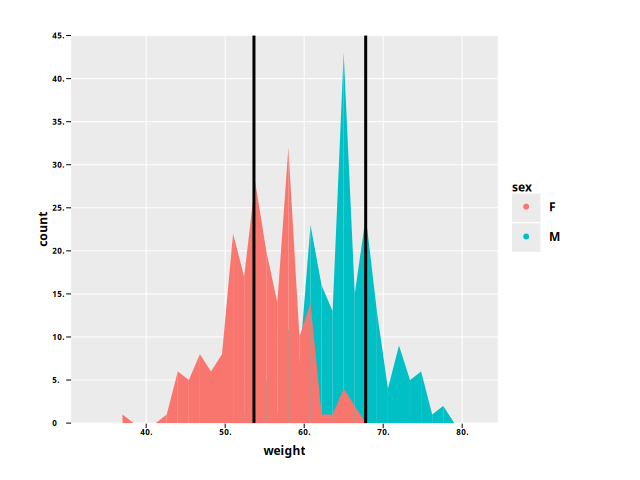
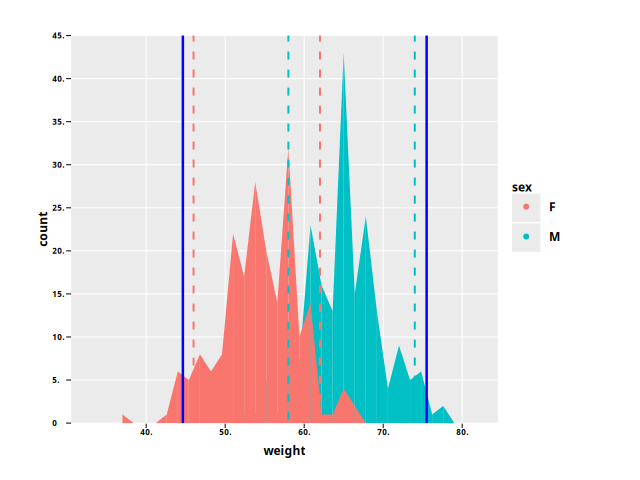
improvements for vline

diff --git a/src/python_ggplot/gg/geom/base.py b/src/python_ggplot/gg/geom/base.py
@@ -34,6 +34,8 @@ from python_ggplot.gg.styles.config import (
     TEXT_DEFAULT_STYLE,
     TILE_DEFAULT_STYLE,
 )
+
+# from python_ggplot.gg.styles.utils import apply_style
 from python_ggplot.gg.types import (
     COUNT_COL,
     SMOOTH_VALS_COL,
@@ -60,6 +62,7 @@ from python_ggplot.graphics.initialize import (
     init_rect,
     init_text,
 )
+from python_ggplot.graphics.objects import GraphicsObject
 from python_ggplot.graphics.views import ViewPort
 from tests.test_view import AxisKind, RelativeCoordType
 
@@ -171,6 +174,9 @@ class Geom(ABC):
     def has_bars(self) -> bool:
         # can be true for for geom_bar and geom_histogram
         return False
+
+    def inherit_aes(self) -> bool:
+        return True
 
 
 @dataclass
@@ -621,6 +627,10 @@ class GeomTile(GeomTileMixin, Geom):
 @dataclass
 class GeomVLine(Geom):
     xintercept: Union[Union[float, int], Iterable[Union[float, int]]]
+    inhert_aes: bool = False
+
+    def inherit_aes(self) -> bool:
+        return self.inhert_aes
 
     @property
     def allowed_stat_types(self) -> List["StatType"]:
@@ -636,14 +646,7 @@ class GeomVLine(Geom):
     def geom_type(self) -> GeomType:
         return GeomType.GEOM_VLINE
 
-    def draw_detached_geom(self, view: ViewPort, filled_geom: FilledGeom):
-        val = self.xintercept
-        scale = filled_geom.gg_data.x_scale
-
-        if scale is None:
-            # we should allow doing it relatively eg 20%
-            raise GGException("expected x_scale for vline")
-
+    def _draw_vline(self, val: float, scale: Scale, style: Style) -> GraphicsObject:
         rel_pos = (float(val) - scale.low) / (scale.high - scale.low)
         x = RelativeCoordType(rel_pos)
         y1 = RelativeCoordType(0.0)
@@ -653,17 +656,34 @@ class GeomVLine(Geom):
         line = init_line(
             start,
             end,
-            InitLineInput(
-                style=Style(
-                    color=deepcopy(BLACK),
-                    fill_color=deepcopy(BLACK),
-                    line_width=3.0,
-                    size=5.0,
-                )
-            ),
+            InitLineInput(style=style),
         )
+        return line
 
-        view.children[0].objects.append(line)
+    def draw_detached_geom(
+        self,
+        view: ViewPort,
+        filled_geom: FilledGeom,
+        style: Style,
+        x_series: Optional[pd.Series],
+    ):
+        lines: List[GraphicsObject] = []
+        scale = filled_geom.gg_data.x_scale
+        if scale is None:
+            raise GGException("take from view..")
+
+        if x_series is not None:
+            x_values = list(x_series)
+            scale = view.x_scale
+            # TODO fix the FG calculation so the scale is correct
+        elif isinstance(self.xintercept, Iterable):
+            x_values = self.xintercept
+        else:
+            x_values = [self.xintercept]
+
+        for i in x_values:
+            line = self._draw_vline(i, scale, style)
+            view.children[0].objects.append(line)
 
     def draw_geom(
         self,
@@ -1100,7 +1120,7 @@ def get_scales(
             raise GGException("found more than 1 scale matching gid")
         if len(more_scale) == 1:
             return more_scale[0]
-        elif field.main is not None:
+        elif field.main is not None and geom.inherit_aes():
             return field.main
         else:
             return None
@@ -1285,7 +1305,7 @@ def create_filled_geom_from_geom(
         )
 
     filled_scale_stat_geom = create_fillsed_scale_stat_geom(df, geom, filled_scales)
-    filled_geom, df, stlye = filled_scale_stat_geom.create_filled_geom(filled_scales)
+    filled_geom, df, style = filled_scale_stat_geom.create_filled_geom(filled_scales)
     filled_scale_stat_geom.post_process(filled_geom, df)
     return filled_geom
 
@@ -1348,7 +1368,8 @@ def create_filled_geoms_for_filled_scales(
                 and not y_scale.is_empty()
             ):
                 x_scale = x_scale.merge(filled_geom.gg_data.x_scale)
-                y_scale = y_scale.merge(filled_geom.gg_data.y_scale)
+                if filled_geom.gg_data.y_scale is not None:
+                    y_scale = y_scale.merge(filled_geom.gg_data.y_scale)
             else:
                 x_scale = filled_geom.gg_data.x_scale
                 y_scale = filled_geom.gg_data.y_scale
@@ -1466,8 +1487,9 @@ class FilledNoneGeom(FilledStatGeom):
     def fill_crated_geom(
         self, filled_scales: "FilledScales", filled_geom: "FilledGeom", style: "GGStyle"
     ) -> "FilledGeom":
-        # TODO clean this up
+        from python_ggplot.gg.geom.utils import apply_cont_scale_if_any
 
+        # TODO clean this up
         x_scale = filled_scales.get_x_scale(filled_geom.gg_data.geom, optional=True)
         y_scale = filled_scales.get_y_scale(filled_geom.gg_data.geom, optional=True)
         if x_scale:
@@ -1490,6 +1512,8 @@ class FilledNoneGeom(FilledStatGeom):
         else:
             filled_geom.gg_data.y_scale = Scale(low=0.0, high=0.0)
 
+        copied_style = deepcopy(style)
+        filled_geom.gg_data.yield_data["no_lab_data"] = (copied_style, [copied_style], self.df)
         return filled_geom
 
     def post_process(self, fg: FilledGeom, df: pd.DataFrame):

diff --git a/src/python_ggplot/gg/geom/utils.py b/src/python_ggplot/gg/geom/utils.py
@@ -249,9 +249,13 @@ def _filled_identity_geom_map(
     for keys in sorted_keys:  # type: ignore
         sub_df = grouped.get_group(keys)  # type: ignore
         key_values = list(product(filled_stat_geom.map_discrete_columns, [keys]))  # type: ignore
-        current_style = apply_style(
-            deepcopy(style), sub_df, filled_stat_geom.discrete_scales, key_values
-        )  # type: ignore
+
+        if filled_geom.gg_data.geom.inherit_aes():
+            current_style = apply_style(
+                deepcopy(style), sub_df, filled_stat_geom.discrete_scales, key_values
+            )  # type: ignore
+        else:
+            current_style = deepcopy(style)
 
         yield_df: pd.DataFrame = sub_df.copy()  # type: ignore
         filled_stat_geom.x.set_x_attributes(filled_geom, yield_df)
@@ -259,11 +263,12 @@ def _filled_identity_geom_map(
         if geom.gg_data.position == PositionType.STACK:
             yield_df[PREV_VALS_COL] = 0.0 if len(col) == 0 else col.copy()  # type: ignore
 
-        col = add_counts_by_position(
-            yield_df[filled_geom.gg_data.y_col],  # type: ignore
-            col,  # type: ignore
-            geom.gg_data.position,
-        )
+        if geom.gg_data.position == PositionType.STACK:
+            col = add_counts_by_position(
+                yield_df[filled_geom.gg_data.y_col],  # type: ignore
+                col,  # type: ignore
+                geom.gg_data.position,
+            )
 
         if _modify_for_stacking(geom):
             yield_df[filled_geom.gg_data.y_col] = col
@@ -339,9 +344,12 @@ def _filled_count_geom_map(
     for keys in sorted_keys:  # type: ignore
         sub_df = grouped.get_group(keys)  # type: ignore
         key_values = list(product(filled_stat_geom.map_discrete_columns, [keys]))  # type: ignore
-        current_style = apply_style(
-            deepcopy(style), sub_df, filled_stat_geom.discrete_scales, key_values
-        )  # type: ignore
+        if filled_geom.gg_data.geom.inherit_aes():
+            current_style = apply_style(
+                deepcopy(style), sub_df, filled_stat_geom.discrete_scales, key_values
+            )  # type: ignore
+        else:
+            current_style = deepcopy(style)
 
         weight_scale = filled_scales.get_weight_scale(
             filled_stat_geom.geom, optional=True
@@ -429,9 +437,12 @@ def _filled_bin_geom_map(
         sub_df = grouped.get_group(keys)  # type: ignore
         key_values = list(product(filled_stat_geom.map_discrete_columns, [keys]))  # type: ignore
 
-        current_style = apply_style(
-            deepcopy(style), sub_df, filled_stat_geom.discrete_scales, key_values
-        )  # type: ignore
+        if filled_geom.gg_data.geom.inherit_aes():
+            current_style = apply_style(
+                deepcopy(style), sub_df, filled_stat_geom.discrete_scales, key_values
+            )  # type: ignore
+        else:
+            current_style = deepcopy(style)
 
         hist, bins, _ = call_histogram(
             filled_stat_geom.geom,
@@ -561,9 +572,12 @@ def _filled_smooth_geom_map(
     for keys in sorted_keys:  # type: ignore
         sub_df = grouped.get_group(keys)  # type: ignore
         key_values = list(product(filled_stat_geom.map_discrete_columns, [keys]))  # type: ignore
-        current_style = apply_style(
-            deepcopy(style), sub_df, filled_stat_geom.discrete_scales, key_values
-        )  # type: ignore
+        if filled_geom.gg_data.geom.inherit_aes():
+            current_style = apply_style(
+                deepcopy(style), sub_df, filled_stat_geom.discrete_scales, key_values
+            )  # type: ignore
+        else:
+            current_style = deepcopy(style)
 
         yield_df = sub_df.copy()  # type: ignore
 

diff --git a/src/python_ggplot/public_interface/geom.py b/src/python_ggplot/public_interface/geom.py
@@ -358,7 +358,8 @@ def geom_line(
 
 
 def geom_vline(
-    xintercept: Union[Union[float, int], Iterable[Union[float, int]]],
+    xintercept: Optional[Union[Union[float, int], Iterable[Union[float, int]]]] = None,
+    data: Optional[pd.DataFrame] = None,
     aes: Optional[Aesthetics] = None,
     color: PossibleColor = None,
     size: PossibleFloat = None,
@@ -366,12 +367,19 @@ def geom_vline(
     fill_color: PossibleColor = None,
     position: POSITION_VALUES = "identity",
     alpha: Optional[float] = None,
+    inhert_aes: bool = False,
 ) -> "Geom":
 
     if aes is None:
         aes = Aesthetics()
+    if data is None:
+        data = pd.DataFrame()
 
-    stat_ = StatType.eitem("none")
+    if xintercept:
+        stat_ = StatType.eitem("none")
+    else:
+        stat_ = StatType.eitem("identity")
+
     position_ = PositionType.eitem(position)
     line_type_ = LineType.eitem(line_type)
 
@@ -388,14 +396,14 @@ def geom_vline(
     gid = get_gid()
     gg_data = GeomData(
         gid=gid,
-        data=None,
+        data=data,
         user_style=style,
         aes=fill_ids(aes, {gid}),
         bin_position=None,
         stat_kind=StatKind.create_from_enum(stat_),
         position=position_,
     )
-    result = GeomVLine(gg_data=gg_data, xintercept=xintercept)
+    result = GeomVLine(gg_data=gg_data, xintercept=xintercept, inhert_aes=inhert_aes)
 
     return result
 

diff --git a/tests/test_plots.py b/tests/test_plots.py
@@ -1,3 +1,5 @@
+from typing import List
+
 import numpy as np
 import pandas as pd
 import pytest
@@ -441,12 +443,29 @@ def test_geom_area_stat_bin():
     )
 
     df = pd.DataFrame({"sex": pd.Categorical(sex), "weight": weight})
-    quantiles = list(df["weight"].quantile([0.25, 0.75]))
+
+    vline_gender_quantiles = (
+        df.groupby("sex")["weight"].quantile([0.05, 0.95]).reset_index()
+    )
+    global_quantiles: List[float] = list(df["weight"].quantile([0.05, 0.95]))
+
     plot = (
         ggplot(df, aes(x="weight", fill="sex"))
         + geom_area(stat="bin", alpha=1)
-        + geom_vline(xintercept=quantiles[0])
-        + geom_vline(xintercept=quantiles[1])
+        + geom_vline(
+            data=vline_gender_quantiles,
+            # TODO this doesnt need to take X
+            # we need to change the logic in stat idenitiy geom
+            # to use xintercept as x
+            aes=aes(xintercept="weight", x="weight"),
+            size=2,
+            line_type="dashed",
+            inhert_aes=True,
+            alpha=0.7,
+        )
+        + geom_vline(
+            xintercept=global_quantiles, size=2.5, line_type="solid", color="blue"
+        )
     )
     res = ggcreate(plot)
     ggdraw_plot(res, plots_path / "geom_area_stat_bin.png")

diff --git a/src/python_ggplot/public_interface/aes.py b/src/python_ggplot/public_interface/aes.py
@@ -17,6 +17,8 @@ from tests.test_plots import gg_col
 _AES_PARAM_TO_SCALE_ARGS: Dict[str, Tuple[ScaleType, Optional[AxisKind]]] = {
     "x": (ScaleType.LINEAR_DATA, AxisKind.X),
     "y": (ScaleType.LINEAR_DATA, AxisKind.Y),
+    "xintercept": (ScaleType.LINEAR_DATA, AxisKind.X),
+    "yintercept": (ScaleType.LINEAR_DATA, AxisKind.Y),
     "color": (ScaleType.COLOR, None),
     "fill": (ScaleType.COLOR, None),
     "shape": (ScaleType.SHAPE, None),
@@ -83,6 +85,8 @@ def _init_aes(data: Dict[str, Optional[str]]) -> Aesthetics:
 def aes(
     x: Optional[Union[str, gg_col]] = None,
     y: Optional[Union[str, gg_col]] = None,
+    xintercept: Optional[Union[str, gg_col]] = None,
+    yintercept: Optional[Union[str, gg_col]] = None,
     color: Optional[str] = None,
     fill: Optional[str] = None,
     shape: Optional[str] = None,
@@ -109,6 +113,8 @@ def aes(
     data: Dict[str, Optional[str]] = {
         "x": x,
         "y": y,
+        "xintercept": xintercept,
+        "yintercept": yintercept,
         "color": color,
         "fill": fill,
         "shape": shape,

diff --git a/src/python_ggplot/gg/drawing.py b/src/python_ggplot/gg/drawing.py
@@ -841,6 +841,17 @@ def draw_sub_df(
     need_bin_width = _needs_bin_width(geom_type, fg.gg_data.geom.gg_data.bin_position)
 
     line_points: List[Coord] = []
+    if geom_type == GeomType.GEOM_VLINE:
+        for i in range(len(df)):
+            if len(styles) > 1:
+                style = merge_user_style(styles[i], fg)
+
+        if fg.gg_data.x_col:
+            fg.gg_data.geom.draw_detached_geom(view, fg, style, df[fg.gg_data.x_col])
+        else:
+            fg.gg_data.geom.draw_detached_geom(view, fg, style, None)
+        return
+
     if geom_type != GeomType.RASTER:
         x_tensor = df[fg.gg_data.x_col]  # type: ignore
         y_tensor = df[fg.gg_data.y_col]  # type: ignore
@@ -1016,6 +1027,3 @@ def create_gobj_from_geom(
             continue
 
         draw_sub_df(view, fg, view_map, sub_df, styles, theme)
-
-    if fg.geom_type in {GeomType.GEOM_VLINE}:
-        fg.gg_data.geom.draw_detached_geom(view, fg)

diff --git a/src/python_ggplot/gg/types.py b/src/python_ggplot/gg/types.py
@@ -177,9 +177,11 @@ class Aesthetics:
     x: Optional["GGScale"] = None
     x_min: Optional["GGScale"] = None
     x_max: Optional["GGScale"] = None
+    xintercept: Optional["GGScale"] = None
     y: Optional["GGScale"] = None
     y_min: Optional["GGScale"] = None
     y_max: Optional["GGScale"] = None
+    yintercept: Optional["GGScale"] = None
     fill: Optional["GGScale"] = None
     color: Optional["GGScale"] = None
     alpha: Optional["GGScale"] = None
